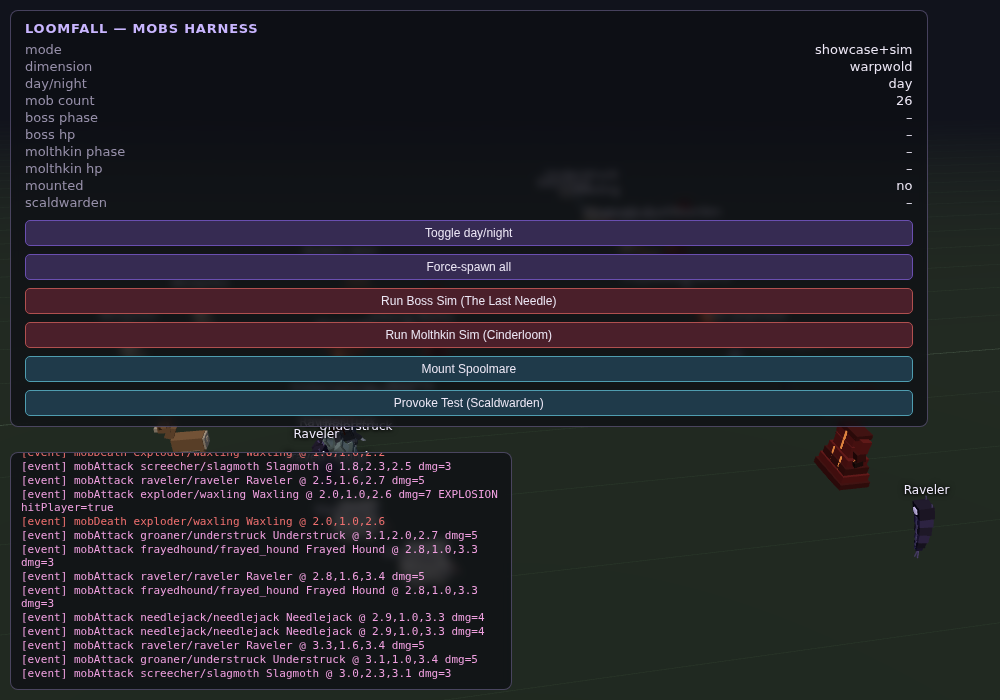
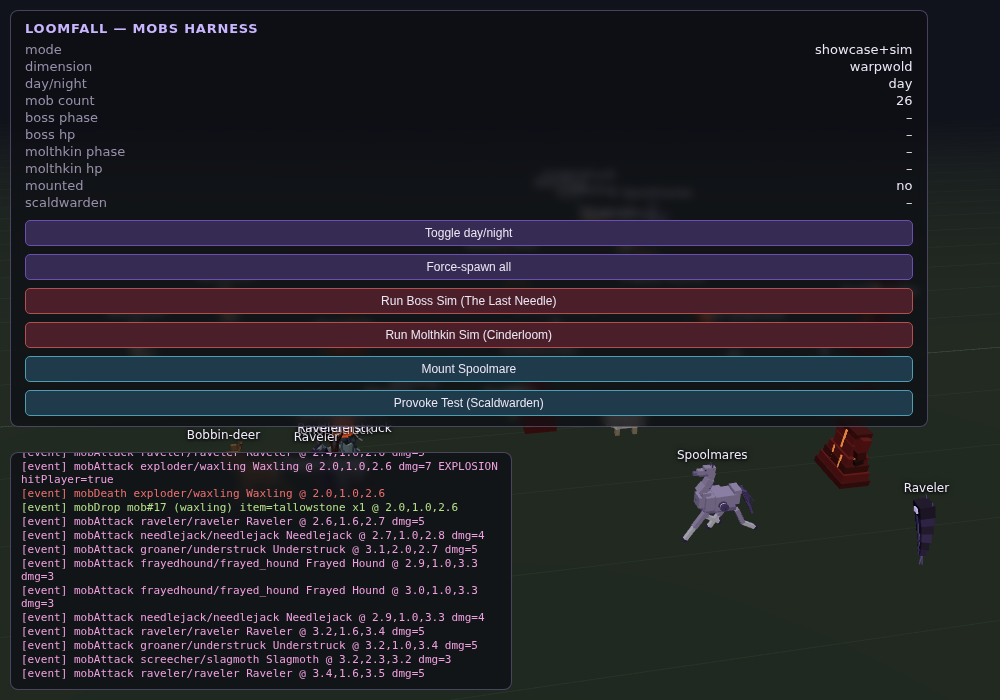
Redesign Spoolmare model: distinct elongated thread-horse (mane/tail/spool flanks)

diff --git a/mobs/creatures/spoolmare.js b/mobs/creatures/spoolmare.js
@@ -12,11 +12,12 @@ import * as THREE from 'three';
 // Silhouette goals: a slender, ELEGANT EQUINE — a long, S-curved three-bone
 // neck, tapered head, tapered five-segment torso (chest -> rump), and four
 // long legs, ~1.5 units tall. NOT a Minecraft horse: no boxy uniform torso,
-// no boxy head. Mane + tail are dense chains of thin dangling thread-strand
-// boxes that stream in the wind. A wound-thread medallion (concentric
-// cylinder/torus rings around a dark hub) on each flank suggests a wound
-// spool. Passive, rideable — exposes a rideAnchor object at the saddle
-// point on its back.
+// no boxy head. Mane is 12 independent thin dangling thread-strand boxes
+// cascading down the neck's crest; tail is 7 independent two-segment
+// thread-strands fanned out behind the rump, both swaying/streaming in the
+// wind. A protruding 3D wound-thread BOBBIN (two flanges + a banded barrel,
+// not a flat medallion) on each flank suggests a wound spool. Passive,
+// rideable — exposes a rideAnchor object at the saddle point on its back.
 // ---------------------------------------------------------------------------
 
 // Canonical Spoolmare bestiary palette.
@@ -149,12 +150,13 @@ export function build() {
   parts.torsoPivot = torsoPivot;
 
   // -------------------------------------------------------------------
-  // WOVEN-SPOOL FLANK MOTIF — a small wound-thread MEDALLION on each
-  // flank: a flat mane-colored backing disc with concentric alternating
-  // rings (like thread wound round and round a bobbin) and a small dark
-  // axle-hub at the center, marking where the birth-thread was never
-  // fully unwound. Built from cylinders/tori (not flat bars) so it
-  // actually reads as a coiled spool rather than plain stripes.
+  // WOVEN-SPOOL FLANK MOTIF — a small wound-thread BOBBIN protruding from
+  // each flank: two wide mane-colored flanges (the flat ends of a real
+  // thread spool) joined by a narrower barrel wrapped in 2-3 alternating
+  // winding-thread bands, capped with a small dark axle nub, marking where
+  // the birth-thread was never fully unwound. Built with real depth along
+  // local X (not a flush flat disc) so it reads as an actual 3D spool
+  // rather than a coin/medallion glyph even at a distance.
   // -------------------------------------------------------------------
   function ringMesh(geo, material) {
     const mesh = new THREE.Mesh(geo, material);
@@ -175,31 +177,45 @@ export function build() {
     const AXIS_OUT_CYL = Math.PI / 2; // Y -> X
     const AXIS_OUT_TORUS = Math.PI / 2; // Z -> X
 
-    // Backing disc, flush against the coat, flat face visible from the side.
-    const disc = ringMesh(new THREE.CylinderGeometry(0.085, 0.085, 0.018, 16), mat.mane);
-    disc.rotation.z = AXIS_OUT_CYL;
-    disc.position.x = xSide * 0.006;
-    group.add(disc);
+    // A genuine 3D BOBBIN, not a flat medallion: two wide flanges (the flat
+    // ends of a real thread spool) joined by a narrower barrel, with 2-3
+    // winding-thread bands wrapped around the barrel between them. The
+    // whole stack protrudes out from the flank along local X so, unlike a
+    // flush disc, it reads with real depth/silhouette from a 3/4 angle
+    // instead of misreading as a flat coin/glyph at a distance.
+    const innerFlange = ringMesh(new THREE.CylinderGeometry(0.072, 0.072, 0.015, 16), mat.mane);
+    innerFlange.rotation.z = AXIS_OUT_CYL;
+    innerFlange.position.x = xSide * 0.012;
+    group.add(innerFlange);
 
-    // Concentric wound-thread rings, alternating light/dark, nested from
-    // the outer rim in toward the hub, each sitting slightly proud of the
-    // disc so the coiled-thread layering actually reads in relief.
-    const ringDefs = [
-      { r: 0.07, tube: 0.011, mat: mat.blaze },
-      { r: 0.05, tube: 0.011, mat: mat.shadow },
-      { r: 0.03, tube: 0.011, mat: mat.blaze },
+    const barrel = ringMesh(new THREE.CylinderGeometry(0.044, 0.044, 0.075, 14), mat.shadow);
+    barrel.rotation.z = AXIS_OUT_CYL;
+    barrel.position.x = xSide * 0.05;
+    group.add(barrel);
+
+    const outerFlange = ringMesh(new THREE.CylinderGeometry(0.072, 0.072, 0.015, 16), mat.mane);
+    outerFlange.rotation.z = AXIS_OUT_CYL;
+    outerFlange.position.x = xSide * 0.088;
+    group.add(outerFlange);
+
+    // Winding-thread bands, alternating light/dark, wrapped around the
+    // barrel between the two flanges like coiled yarn on a real bobbin.
+    const bandDefs = [
+      { x: 0.03, mat: mat.blaze },
+      { x: 0.05, mat: mat.dark },
+      { x: 0.07, mat: mat.blaze },
     ];
-    ringDefs.forEach(({ r, tube, mat: ringMat }) => {
-      const ring = ringMesh(new THREE.TorusGeometry(r, tube, 6, 18), ringMat);
-      ring.rotation.y = AXIS_OUT_TORUS;
-      ring.position.x = xSide * 0.013;
-      group.add(ring);
+    bandDefs.forEach(({ x, mat: bandMat }) => {
+      const band = ringMesh(new THREE.TorusGeometry(0.046, 0.009, 6, 16), bandMat);
+      band.rotation.y = AXIS_OUT_TORUS;
+      band.position.x = xSide * x;
+      group.add(band);
     });
 
-    // Small protruding axle hub at the very center.
-    const hub = ringMesh(new THREE.CylinderGeometry(0.014, 0.014, 0.05, 8), mat.dark);
+    // Small protruding axle nub past the outer flange, capping the spool.
+    const hub = ringMesh(new THREE.CylinderGeometry(0.012, 0.012, 0.03, 8), mat.dark);
     hub.rotation.z = AXIS_OUT_CYL;
-    hub.position.x = xSide * 0.02;
+    hub.position.x = xSide * 0.105;
     group.add(hub);
 
     return group;
@@ -360,65 +376,54 @@ export function build() {
   parts.mane = mane;
 
   // -------------------------------------------------------------------
-  // TAIL — a chain of loose violet thread-strands off the rear, longer
-  // and fuller than the mane, streaming behind and below the croup.
+  // TAIL — SEVEN independent, two-segment loose violet thread-strands
+  // fanned out off the rear, each rooted directly at the tail base and
+  // swaying on its own phase, so the tail reads unmistakably as a bundle
+  // of several separate trailing threads rather than one solid ribbon.
   // -------------------------------------------------------------------
   // Rooted well clear of the rump's back face (rump spans to z ~ -0.385)
   // and tipped back at a steeper angle so the tail visibly trails behind
-  // the body's silhouette instead of hugging it, and is thickened
-  // considerably at every segment so it reads clearly even from a
-  // rear 3/4 angle instead of vanishing into a hair-thin sliver.
+  // the body's silhouette instead of hugging it.
   const tailPivot = new THREE.Group();
   tailPivot.position.set(0, 0.29, -0.44);
   tailPivot.rotation.x = 0.48;
   torsoPivot.add(tailPivot);
 
-  const tailBase = hangingBox(0.10, 0.27, 0.10, mat.mane);
-  tailPivot.add(tailBase);
+  // Each strand: a root pivot fanned out from center, an upper segment,
+  // a knee pivot, and a tapered lower segment -- built the same way as a
+  // leg, but hanging loose off the tail root instead of reaching the
+  // ground, so every strand can independently sway/stream in animate().
+  function buildTailStrand({ x, z, upperLen, lowerLen, upperW, lowerW }) {
+    const rootPivot = new THREE.Group();
+    rootPivot.position.set(x, -0.02, z);
+    tailPivot.add(rootPivot);
 
-  const tailMid = new THREE.Group();
-  tailMid.position.set(0, -0.26, -0.03);
-  tailPivot.add(tailMid);
-  const tailMidSeg = hangingBox(0.075, 0.24, 0.075, mat.mane);
-  tailMid.add(tailMidSeg);
+    const upperSeg = hangingBox(upperW, upperLen, upperW, mat.mane);
+    rootPivot.add(upperSeg);
 
-  const tailTip = new THREE.Group();
-  tailTip.position.set(0, -0.23, -0.03);
-  tailMid.add(tailTip);
-  const tailTipSeg = hangingBox(0.055, 0.21, 0.055, mat.mane);
-  tailTip.add(tailTipSeg);
+    const kneePivot = new THREE.Group();
+    kneePivot.position.set(0, -upperLen, 0);
+    rootPivot.add(kneePivot);
 
-  const tailWisp = new THREE.Group();
-  tailWisp.position.set(0, -0.20, -0.02);
-  tailTip.add(tailWisp);
-  const tailWispSeg = hangingBox(0.03, 0.15, 0.03, mat.mane);
-  tailWisp.add(tailWispSeg);
+    const lowerSeg = hangingBox(lowerW, lowerLen, lowerW, mat.mane);
+    kneePivot.add(lowerSeg);
 
-  // A fuller fan of extra loose stray strands for a windswept streaming
-  // read, varied in length/width so the whole tail reads as a bundle of
-  // flowing thread rather than a single rigid rod.
-  const tailStrayL = new THREE.Group();
-  tailStrayL.position.set(-0.055, -0.03, -0.015);
-  tailPivot.add(tailStrayL);
-  tailStrayL.add(hangingBox(0.028, 0.42, 0.028, mat.mane));
+    return { rootPivot, kneePivot };
+  }
 
-  const tailStrayR = new THREE.Group();
-  tailStrayR.position.set(0.055, -0.03, -0.015);
-  tailPivot.add(tailStrayR);
-  tailStrayR.add(hangingBox(0.028, 0.39, 0.028, mat.mane));
-
-  const tailStrayC = new THREE.Group();
-  tailStrayC.position.set(0, -0.05, -0.03);
-  tailPivot.add(tailStrayC);
-  tailStrayC.add(hangingBox(0.024, 0.46, 0.024, mat.mane));
+  const tailStrandDefs = [
+    { x: 0, z: 0, upperLen: 0.27, lowerLen: 0.24, upperW: 0.05, lowerW: 0.036 },
+    { x: -0.03, z: -0.01, upperLen: 0.25, lowerLen: 0.23, upperW: 0.04, lowerW: 0.03 },
+    { x: 0.03, z: -0.01, upperLen: 0.25, lowerLen: 0.23, upperW: 0.04, lowerW: 0.03 },
+    { x: -0.055, z: -0.02, upperLen: 0.21, lowerLen: 0.20, upperW: 0.032, lowerW: 0.024 },
+    { x: 0.055, z: -0.02, upperLen: 0.21, lowerLen: 0.20, upperW: 0.032, lowerW: 0.024 },
+    { x: -0.075, z: -0.035, upperLen: 0.16, lowerLen: 0.16, upperW: 0.026, lowerW: 0.02 },
+    { x: 0.075, z: -0.035, upperLen: 0.16, lowerLen: 0.16, upperW: 0.026, lowerW: 0.02 },
+  ];
+  const tailStrands = tailStrandDefs.map(buildTailStrand);
 
   parts.tailPivot = tailPivot;
-  parts.tailMid = tailMid;
-  parts.tailTip = tailTip;
-  parts.tailWisp = tailWisp;
-  parts.tailStrayL = tailStrayL;
-  parts.tailStrayR = tailStrayR;
-  parts.tailStrayC = tailStrayC;
+  parts.tailStrands = tailStrands;
 
   // -------------------------------------------------------------------
   // LEGS — four long, slender legs built from hip/shoulder + knee
@@ -545,12 +550,11 @@ export function build() {
         strand.rotation.z = Math.sin(stride * 0.7 + i * 0.8) * 0.15;
       });
       tailPivot.rotation.x = 0.2 + Math.sin(stride * 0.6) * 0.1;
-      tailMid.rotation.z = Math.sin(stride * 0.8 + 0.6) * 0.3;
-      tailTip.rotation.z = Math.sin(stride * 0.8 + 1.2) * 0.4;
-      tailWisp.rotation.z = Math.sin(stride * 0.8 + 1.7) * 0.45;
-      tailStrayL.rotation.z = Math.sin(stride * 0.9 + 0.3) * 0.3;
-      tailStrayR.rotation.z = Math.sin(stride * 0.9 - 0.3) * 0.3;
-      tailStrayC.rotation.z = Math.sin(stride * 0.85) * 0.25;
+      tailStrands.forEach(({ rootPivot, kneePivot }, i) => {
+        rootPivot.rotation.z = Math.sin(stride * 0.85 + i * 0.7) * 0.3;
+        rootPivot.rotation.x = Math.sin(stride * 0.7 + i * 0.5) * 0.12;
+        kneePivot.rotation.z = Math.sin(stride * 0.8 + i * 0.7 + 0.9) * 0.4;
+      });
 
       earPivotL.rotation.x = -0.2;
       earPivotR.rotation.x = -0.2;
@@ -584,12 +588,10 @@ export function build() {
         flick = Math.sin((flickCycle / 0.5) * Math.PI) * 0.5;
       }
       tailPivot.rotation.x = 0.48 + Math.sin(idle * 0.5) * 0.04;
-      tailMid.rotation.z = Math.sin(idle * 0.5 + 0.5) * 0.1 + flick * 0.3;
-      tailTip.rotation.z = Math.sin(idle * 0.5 + 1.0) * 0.15 + flick * 0.5;
-      tailWisp.rotation.z = Math.sin(idle * 0.5 + 1.4) * 0.18 + flick * 0.6;
-      tailStrayL.rotation.z = Math.sin(idle * 0.5 + 0.3) * 0.12;
-      tailStrayR.rotation.z = Math.sin(idle * 0.5 - 0.3) * 0.12;
-      tailStrayC.rotation.z = Math.sin(idle * 0.5) * 0.1;
+      tailStrands.forEach(({ rootPivot, kneePivot }, i) => {
+        rootPivot.rotation.z = Math.sin(idle * 0.5 + i * 0.6) * 0.12 + flick * (0.2 + i * 0.03);
+        kneePivot.rotation.z = Math.sin(idle * 0.5 + i * 0.6 + 0.9) * 0.16 + flick * (0.3 + i * 0.04);
+      });
 
       // Ears swivel gently, tracking idle attentiveness.
       earPivotL.rotation.x = Math.sin(idle * 0.9) * 0.1;
